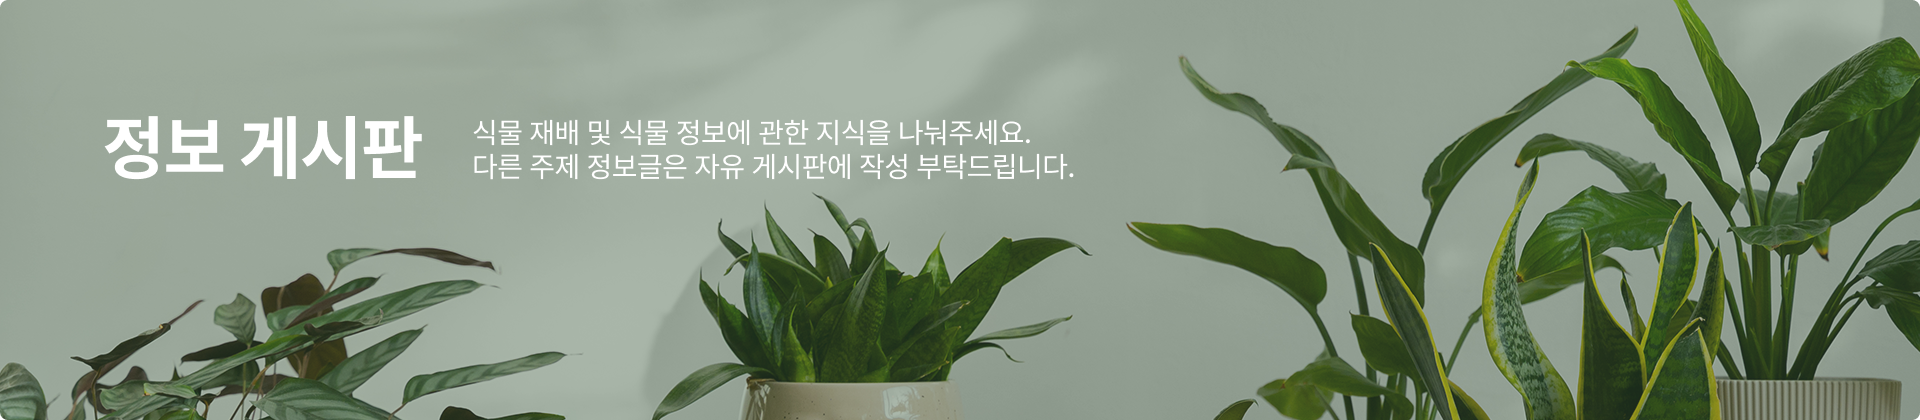
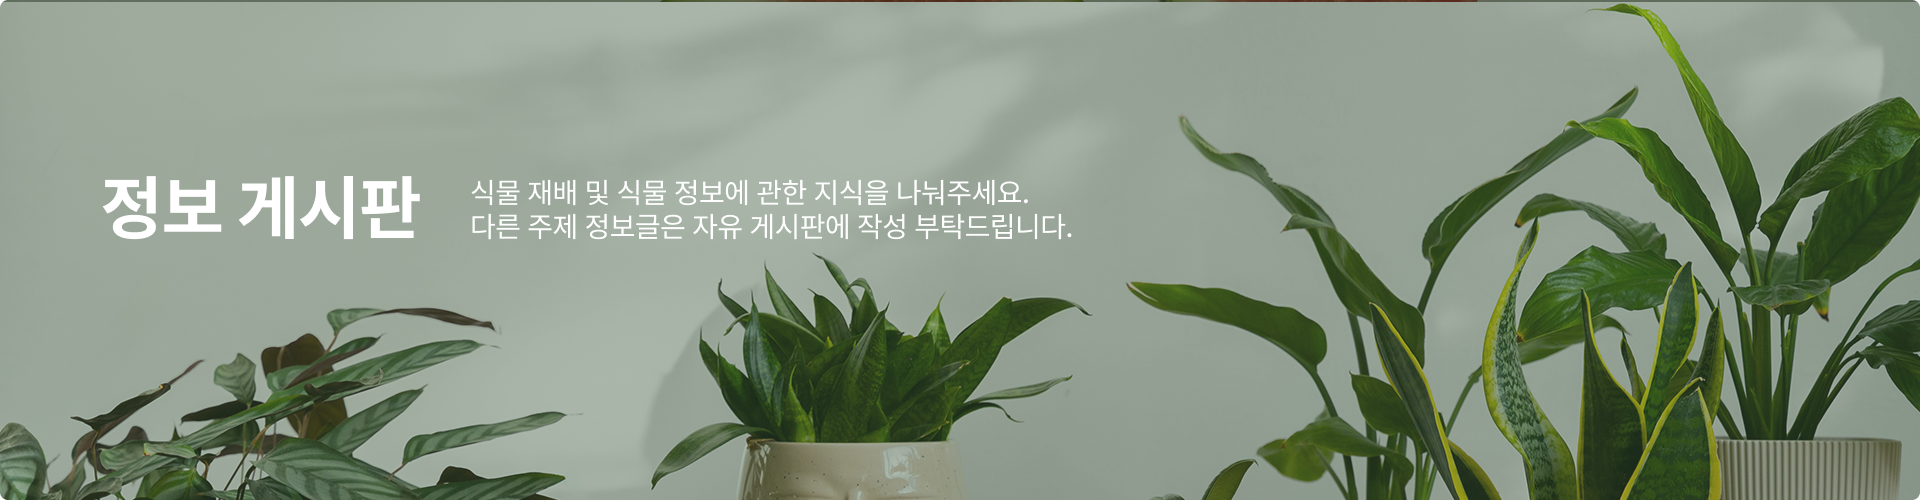
240626 정다은 nav, header, footer 완료

diff --git a/board_info.html b/board_info.html
@@ -8,21 +8,21 @@
 </head>
 <body class="noto-sans-kr">
     <nav>
-        <div class="left">
+        <div class="nav_left">
             <div>
                 <a href="#">
                     <img src="image/nav_logo.svg" alt="플랜트랩 로고">
                 </a>
             </div>
-            <div class="menu" style="display: inline-block;">
-                <ul>
+            <div>
+                <ul class="nav_menu">
                     <li><a href="#">커뮤니티</a></li>
-                    <li><a href="#">스토어</a></li>
+                    <li><a href="#">스토어</a></ li>
                 </ul>
             </div>
         </div>
-        <div class="right">
-            <div class="search">
+        <div class="nav_right">
+            <div class="nav_search">
                 <span>
                     <svg width="25" height="25.5" viewBox="0 0 30 34" fill="none" xmlns="http://www.w3.org/2000/svg">
                         <path d="M28.9749 26.5226L23.9072 20.9181L20.0092 19.137C21.3071 17.0958 22.0025 14.6606 22 12.1652C22 5.45727 17.0654 0 11 0C4.93455 0 0 5.45727 0 12.1652C0 18.8731 4.93455 24.3304 11 24.3304C13.276 24.3333 15.4961 23.551 17.3511 22.0925L18.9574 26.3918L24.0249 31.9966C24.3499 32.3561 24.7358 32.6412 25.1604 32.8357C25.5851 33.0303 26.0402 33.1304 26.4998 33.1304C26.9595 33.1305 27.4146 33.0303 27.8393 32.8358C28.2639 32.6413 28.6498 32.3562 28.9748 31.9968C29.2998 31.6374 29.5576 31.2106 29.7335 30.741C29.9094 30.2714 30 29.7681 30 29.2597C30 28.7514 29.9095 28.2481 29.7336 27.7784C29.5577 27.3088 29.2999 26.8821 28.9749 26.5226ZM2 12.1652C2 6.67703 6.03749 2.21185 11 2.21185C15.9625 2.21185 20 6.67703 20 12.1652C20 17.6534 15.9625 22.1185 11 22.1185C6.03749 22.1185 2 17.6534 2 12.1652ZM27.5606 30.4326C27.2791 30.7433 26.8976 30.9177 26.4999 30.9177C26.1022 30.9177 25.7208 30.7433 25.4393 30.4326L20.6535 25.1399L19.1601 21.1424L22.7749 22.7939L27.5607 28.0866C27.8416 28.398 27.9993 28.8198 27.9993 29.2596C27.9993 29.6994 27.8415 30.1213 27.5606 30.4326Z" fill="#878787"/>
@@ -46,14 +46,13 @@
 
     </main>
     <footer>
-        <div class="container">
+        <div class="f_container">
             <div style="margin: auto 50px;">
-                <img width="200px" height="200px" src="image/round_logo_colorBack.svg" alt="플랜트팜 로고">
+                <img width="150px" height="150px" src="image/round_logo_colorBack.svg" alt="플랜트팜 로고">
             </div>
-            <div class="explain">
+            <div>
                 <p>주소 :  서울특별시 강남구 강남대로2689길 20, 5층(역삼동)   TEL : 02 - 1111-2222</p>
                 <p>상호명 : (주)플랜트랩</p>
-                <br>
                 <p>Copyright © 2024 .All RIGHTS RSERVED.</p>
                 <p>불4조 :  정다은  김화영  김시표  송주헌  반재형</p>
             </div>

diff --git a/css/nav_header_footer.css b/css/nav_header_footer.css
@@ -6,20 +6,29 @@
   font-style: normal;
 }
 
+body {
+    margin: 8px 0;
+}
+
 nav{
     display: flex;
     justify-content: space-between;
     align-items: center;
+    width: 100%;
     height: 60px;
-    position: relative;
+    position: fixed;
+    top:0;
+    background-color: white;
+    border-bottom: 1px solid #e0e0e0;
+    padding: 15px;
 }
 
-nav .left {
+nav .nav_left {
     display: flex;
     align-items: center;
 }
 
-nav .right {
+nav .nav_right {
     display: flex;
     align-items: center;
 }
@@ -30,6 +39,9 @@ nav a {
     font-weight: bold;
 }
 
+nav ul {
+    margin-right: 15px;
+}
 nav li {
     display: inline;
     list-style: none;
@@ -37,12 +49,8 @@ nav li {
     margin: 0 20px;
 }
 
-nav .pic {
-    display: inline-block;
-    width: 50px;
-    height: 50px;
-    border-radius: 50%;
-    background-color: #d9d9d9;
+.nav_menu a:hover{
+    color: #23C961;
 }
 
 nav .name {
@@ -51,7 +59,7 @@ nav .name {
     font-weight: bolder;
 }
 
-nav .search {
+nav .nav_search {
     width: 438px;
     height: 44px;
     background-color: #d9d9d9;
@@ -79,7 +87,7 @@ nav #search {
 
 header{
     display: flex;
-    height: 420px;
+    height: 500px;
     justify-content: center;
 }
 
@@ -89,22 +97,26 @@ main {
 
 footer{
     display: flex;
-    justify-content: left;
-    align-items: center;
+    justify-content: center;
     width: 100%;
-    height: 291px;
+    height: 200px;
     background-color: #154615;
+}
+
+footer .f_container {
+    display: flex;
+    align-items: center;
+    width: 1200px;
     color: white;
 }
 
-footer .container {
-    display: flex;
+footer p {
+    margin: 8px 0;
 }
-
-#chat{
+/* #chat{
     width: 50px;
     height: 50px;
     border-radius: 50%;
     background-color: #363636;
     
-}
+} */
